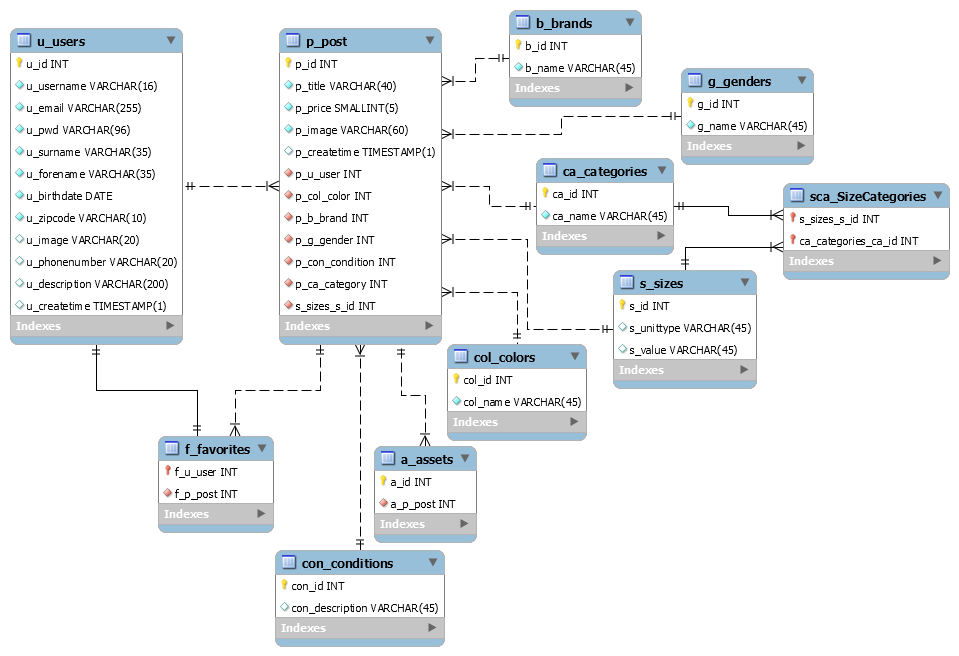
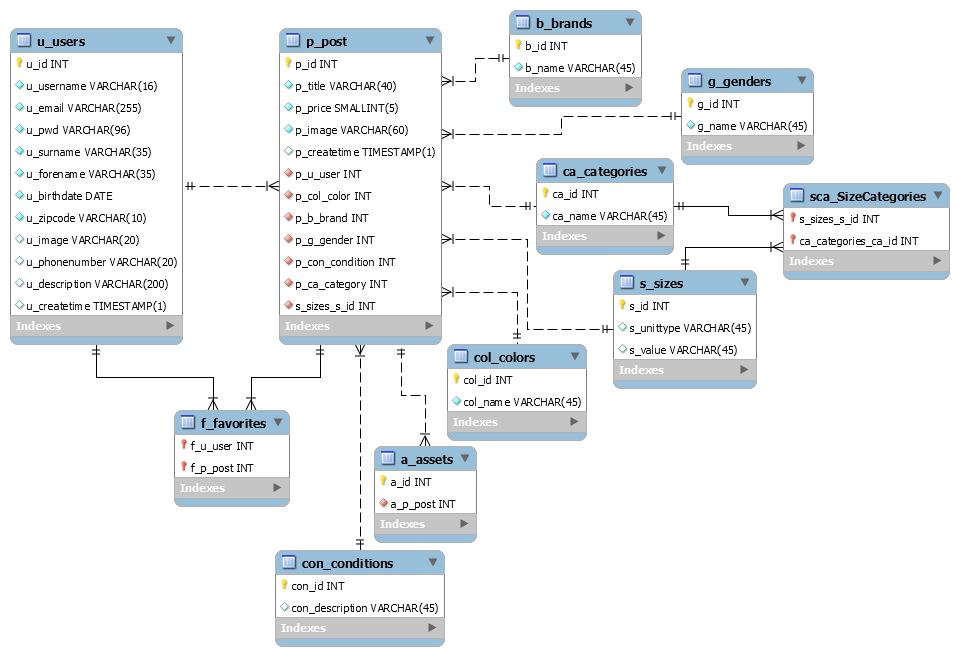
DB->m:n Relation for favorites

Changed region(s): [[0.1512, 0.5793, 0.3024, 0.8232]]

diff --git a/website-dir/html/navbarTop.html b/website-dir/html/navbarTop.html
@@ -1,5 +1,5 @@
 <nav id="nav" class="shadow">
-    <img src="assets/Logo.svg">
+    <img src="../assets/logo/Logo.svg">
     <i class="fas fa-bars fa-lg menu-button"></i>
         <div class="sidenav">
         <div class="sidemenu col-md-12 col-lg-6 col-xl-3 shadow">
